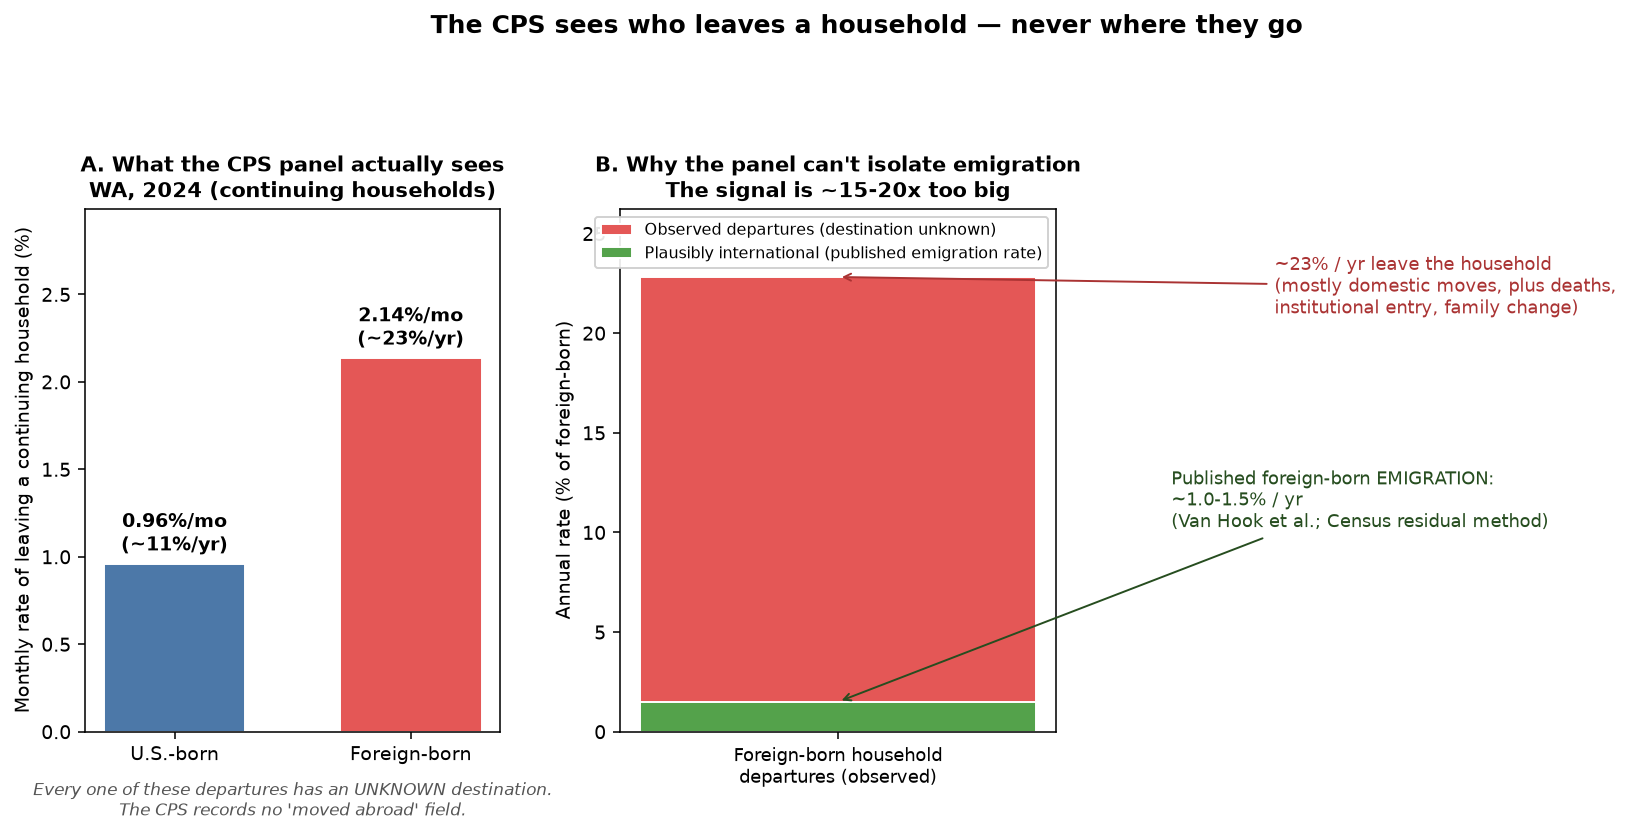
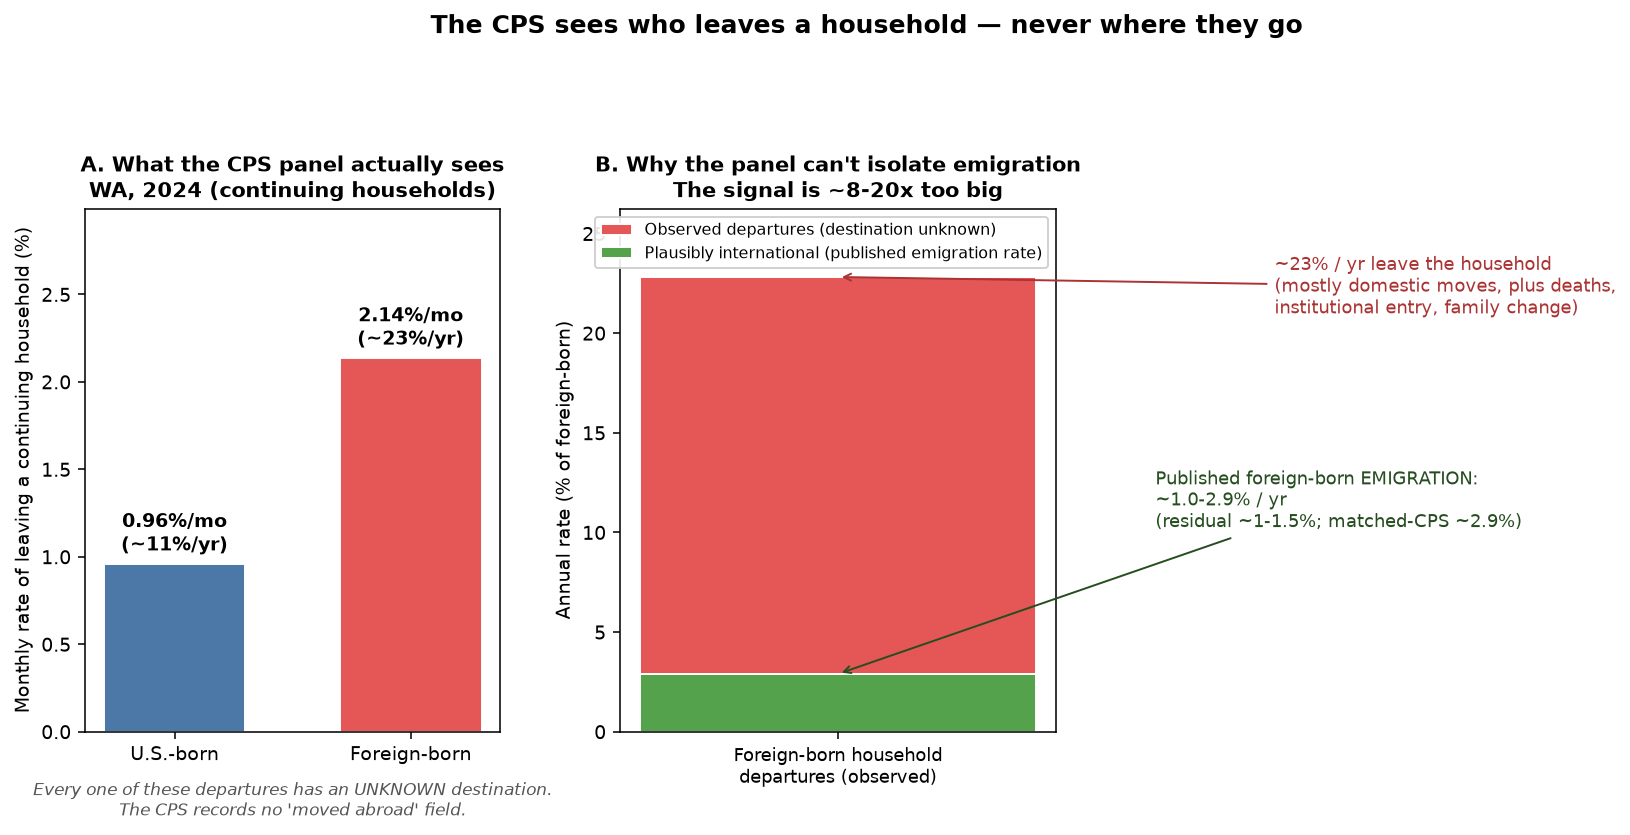
Refine emigration-rate anchor with matched-CPS estimates
Incorporate the literature's matched-CPS (CPS Matching Method) figures, which
run higher than residual methods: ~2.9%/yr average foreign-born emigration
(1995-2009), up to ~3.8%/yr for recent arrivals, vs ~0.9-1.5%/yr residual.
Present both methods; soften the WA churn-vs-emigration multiplier from
"15-20x" to "~8-20x" (an order of magnitude) and widen the WA residual estimate
to ~13,000-37,000/yr. Update the figure's emigration band accordingly.

Claude-Session: https://claude.ai/code/session_01HghxkyHyLMx7aLiMLP6Amz

diff --git a/cps_out_migration_research/make_figure.py b/cps_out_migration_research/make_figure.py
@@ -23,8 +23,10 @@ def annualize(m):
     return 1.0 - (1.0 - m) ** 12
 
 
-# Published foreign-born emigration rate band (per year), from the literature.
-EMIG_LO, EMIG_HI = 0.010, 0.015
+# Published foreign-born emigration rate band (per year), from the literature:
+# residual methods give ~0.9-1.5%/yr; the matched-CPS method (Van Hook et al.)
+# gives higher, ~2.9%/yr on average and up to ~3.8%/yr for recent arrivals.
+EMIG_LO, EMIG_HI = 0.010, 0.029
 
 
 def main():
@@ -76,14 +78,14 @@ def main():
                  arrowprops=dict(arrowstyle="->", color="#a33"))
     axB.annotate(f"Published foreign-born EMIGRATION:\n"
                  f"~{EMIG_LO*100:.1f}-{EMIG_HI*100:.1f}% / yr\n"
-                 "(Van Hook et al.; Census residual method)",
-                 xy=(0, EMIG_HI * 100), xytext=(0.42, churn * 0.45),
+                 "(residual ~1-1.5%; matched-CPS ~2.9%)",
+                 xy=(0, EMIG_HI * 100), xytext=(0.40, churn * 0.45),
                  fontsize=9, color="#264d1f",
                  arrowprops=dict(arrowstyle="->", color="#264d1f"))
     axB.set_ylabel("Annual rate (% of foreign-born)")
     axB.set_ylim(0, churn * 1.15)
     axB.set_title("B. Why the panel can't isolate emigration\n"
-                  "The signal is ~15-20x too big",
+                  "The signal is ~8-20x too big",
                   fontsize=11, fontweight="bold")
     axB.set_xticks([0])
     axB.set_xticklabels(["Foreign-born household\ndepartures (observed)"],

diff --git a/cps_out_migration_research/README.md b/cps_out_migration_research/README.md
@@ -33,9 +33,10 @@ done, and then computed the numbers for Washington State from public data.
   month-pairs of the 2024 basic monthly CPS, **1.14% of people in a continuing
   WA household leave it each month** (~13%/year). Foreign-born residents leave at
   **2.1%/month (~23%/year)** — but published foreign-born *emigration* is only
-  ~1–1.5%/year. **The observed signal is 15–20× too large to be emigration.** It
-  is dominated by ordinary domestic moves, deaths, and household change, and
-  none of it carries a destination.
+  ~1–3%/year (residual methods ~1–1.5%; the matched-CPS method ~2.9%).
+  **The observed signal is roughly an order of magnitude (~8–20×) too large to be
+  emigration.** It is dominated by ordinary domestic moves, deaths, and household
+  change, and none of it carries a destination.
 - **The honest method for a state-level emigration number is the residual /
   matched-CPS approach, not direct panel observation.**
 
@@ -131,9 +132,12 @@ U.S.-born rate. The tempting story writes itself: the extra departures are
 people going home. The data refuse that story.
 
 - **Magnitude.** A 2.1%/month household-departure rate annualizes to ~23%/year.
-  The published foreign-born *emigration* rate is ~1–1.5%/year (Van Hook et al.;
-  Census residual estimates). Emigration could account for, at most, **one
-  fifteenth to one twentieth** of the foreign-born departures the panel sees.
+  The published foreign-born *emigration* rate is ~1–3%/year — residual methods
+  put it near 0.9–1.5% (e.g., Mulder 2003 ≈ 0.9%), the matched-CPS method higher
+  at ~2.9% on average and up to ~3.8% for the most recent arrivals (Van Hook et
+  al.). Even taking the high end, emigration could account for only **about a
+  tenth** of the foreign-born departures the panel sees; on the residual figure,
+  a twentieth.
 - **Confounding.** The foreign-born are younger, more likely to rent, and more
   residentially mobile *within* the U.S. — exactly the people who change address
   often, domestically. The CPS cannot separate that from an international move.
@@ -189,9 +193,11 @@ If you cannot observe emigrants leaving, you infer them from who is *missing*.
   migration `m` comes from the "lived elsewhere a year ago" question, mortality
   `d` from NHIS-linked death models, and `r` from a same-rate assumption against
   the U.S.-born second generation. It matches residual methods for long-term
-  residents and does *better* for recent arrivals. Crucially, it works at the
-  **annual** link and never identifies an individual emigrant; it estimates a
-  proportion.
+  residents and runs *higher* for recent arrivals — where the authors argue it
+  is more accurate. Applied to 1995–2009 data it puts foreign-born emigration at
+  about **2.9%/year on average** (≈3.8%/year in the first five years after
+  arrival, falling toward ~0.8% later). Crucially, it works at the **annual**
+  link and never identifies an individual emigrant; it estimates a proportion.
 
 Both methods share a feature my month-to-month exercise lacks: they do not
 pretend the survey saw the emigration. They model it — and they get the monthly
@@ -203,12 +209,13 @@ otherwise swamp the signal.
 Putting the honest method to work at the back of an envelope: Washington's
 foreign-born population is roughly **1.25–1.3 million** (~16% of the state,
 weighted from the same CPS files; the monthly estimate bounces between ~14% and
-~18% on sampling noise). Applying the published foreign-born emigration rate of
-~1–1.5%/year gives a rough **13,000–19,000 foreign-born emigrants per year from
-Washington** — plus a smaller, lower-rate flow of U.S.-born emigrants. That is a
-*literature-anchored residual estimate*, not something the CPS panel measured.
-And it is dwarfed by the ~290,000 foreign-born WA residents (~23% of ~1.27M) the
-panel sees leave their households each year for reasons it cannot label.
+~18% on sampling noise). Applying the published foreign-born emigration rate —
+~1–1.5%/year (residual) up to ~2.9%/year (matched-CPS) — gives a rough
+**13,000–37,000 foreign-born emigrants per year from Washington**, plus a much
+smaller, lower-rate flow of U.S.-born emigrants. That is a *literature-anchored
+estimate*, not something the CPS panel measured. And even its high end is
+dwarfed by the ~290,000 foreign-born WA residents (~23% of ~1.27M) the panel
+sees leave their households each year for reasons it cannot label.
 
 ## Reproduce it
 